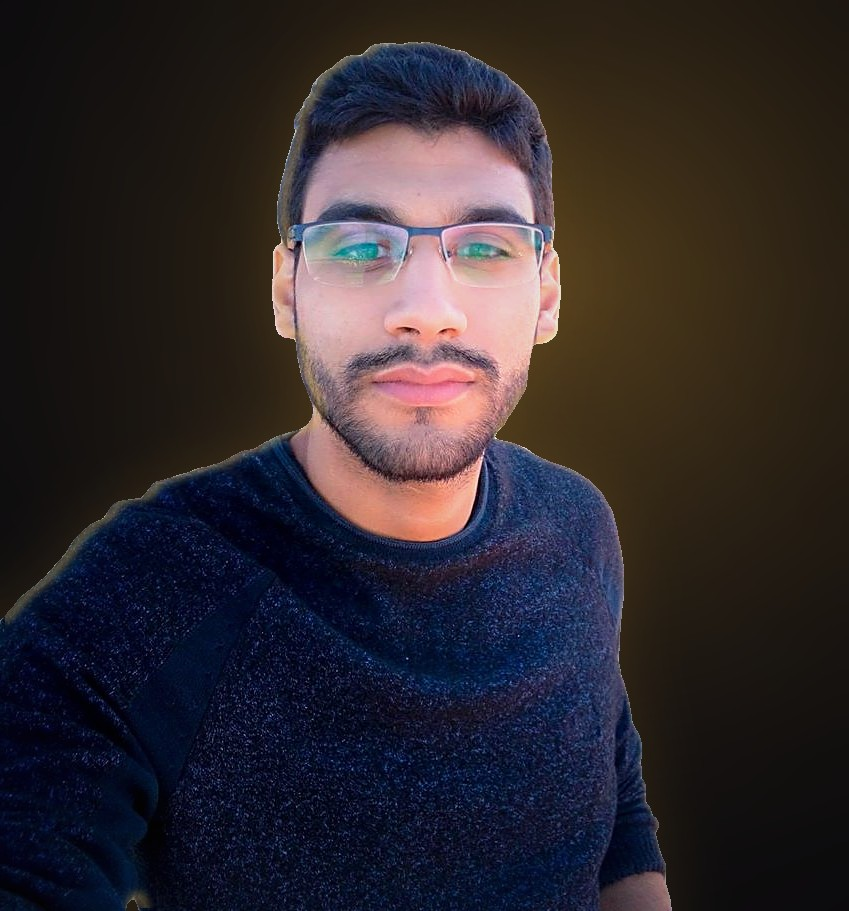
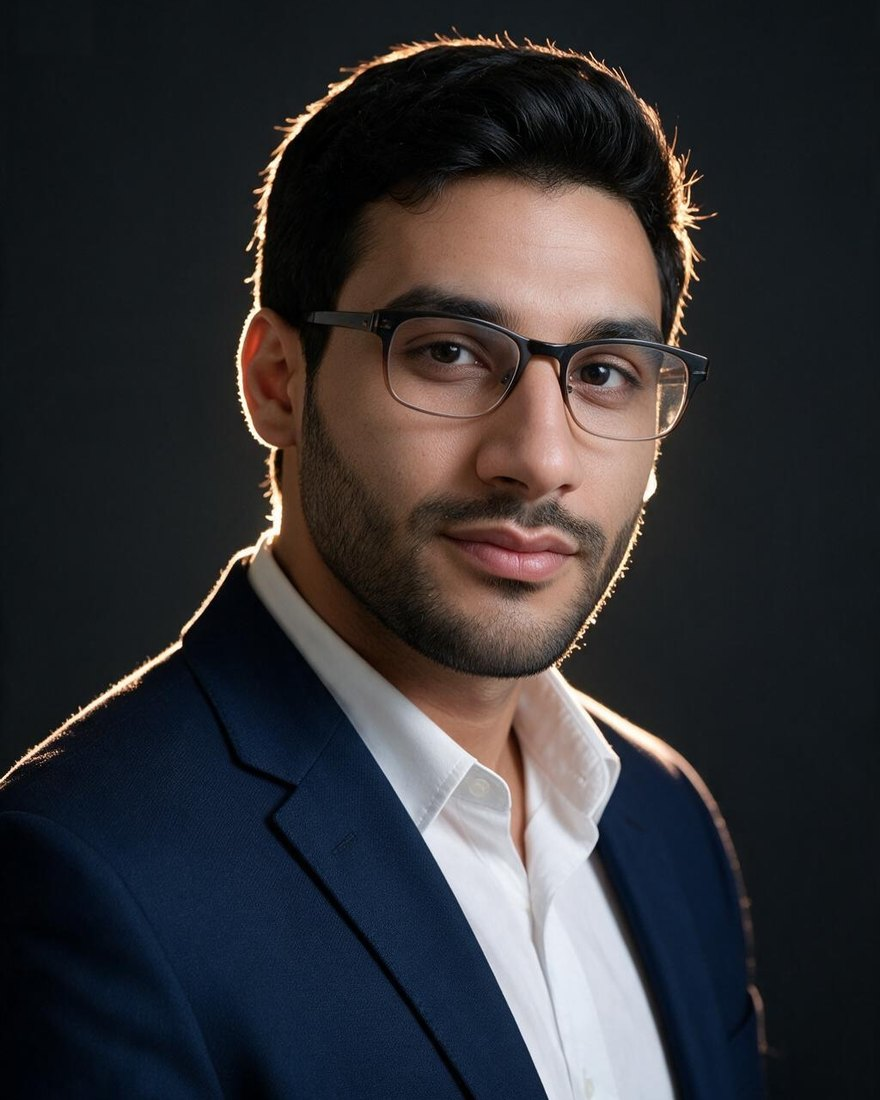
New hero portrait (recent, from the user's photos)

diff --git a/index.html b/index.html
@@ -87,7 +87,7 @@
     <div class="portrait">
       <div class="orbit o1"><span>AWS</span><span>Kubernetes</span><span>Linux</span><span>Terraform</span><span>Docker</span></div>
       <div class="orbit o2"><span>Python</span><span>LangChain</span><span>RAG · LLMs</span><span>Ollama</span><span>Machine Learning</span><span>Computer Vision</span><span>Azure</span><span>Ansible</span></div>
-      <div class="frame"><img src="res/portrait.jpg" alt="Mohamed Aziz Ben Haha" width="849" height="911"></div>
+      <div class="frame"><img src="res/portrait.jpg" alt="Mohamed Aziz Ben Haha" width="880" height="1100"></div>
       <div class="badge-float"><b>Cloud</b><span>AWS · Azure · Kubernetes</span></div>
       <div class="badge-float b2"><b>AI · ML</b><span>RAG · LLMs · Embedded ML</span></div>
     </div>

diff --git a/START-HERE.md b/START-HERE.md
@@ -67,6 +67,9 @@ Use only where they earn their tokens:
 - Every plain contact mailto (hero, modal "Email me", footer) gets a default subject ("Contact from your website" / « Prise de contact depuis votre site »), set by `setMailSubjects()`.
 - Portrait: no tilt, no hover effect, 10px corners.
 
+## Round 7 (2026-10-02)
+- New hero portrait (the user's choice): AI portrait generated from their recent photos (they are 28; older photos were from age 24). "AI" watermark painted out, cropped 4:5, 880×1100 (`res/portrait.jpg`). Source: `Downloads/2026-10-02_02-02-51_Lumina.png`. QR centre and contact-card photo still use the LinkedIn photo.
+
 ## Deviations from the recommendations
 - Hero status keeps availability: "Based in Écully, France · working with Tunisia · open to missions & training" (the green "available" dot would be meaningless with location only). Wraps to two lines on a 375px phone.
 - Mentor card got its own icon (`#i-team`) since it lost the counters.
